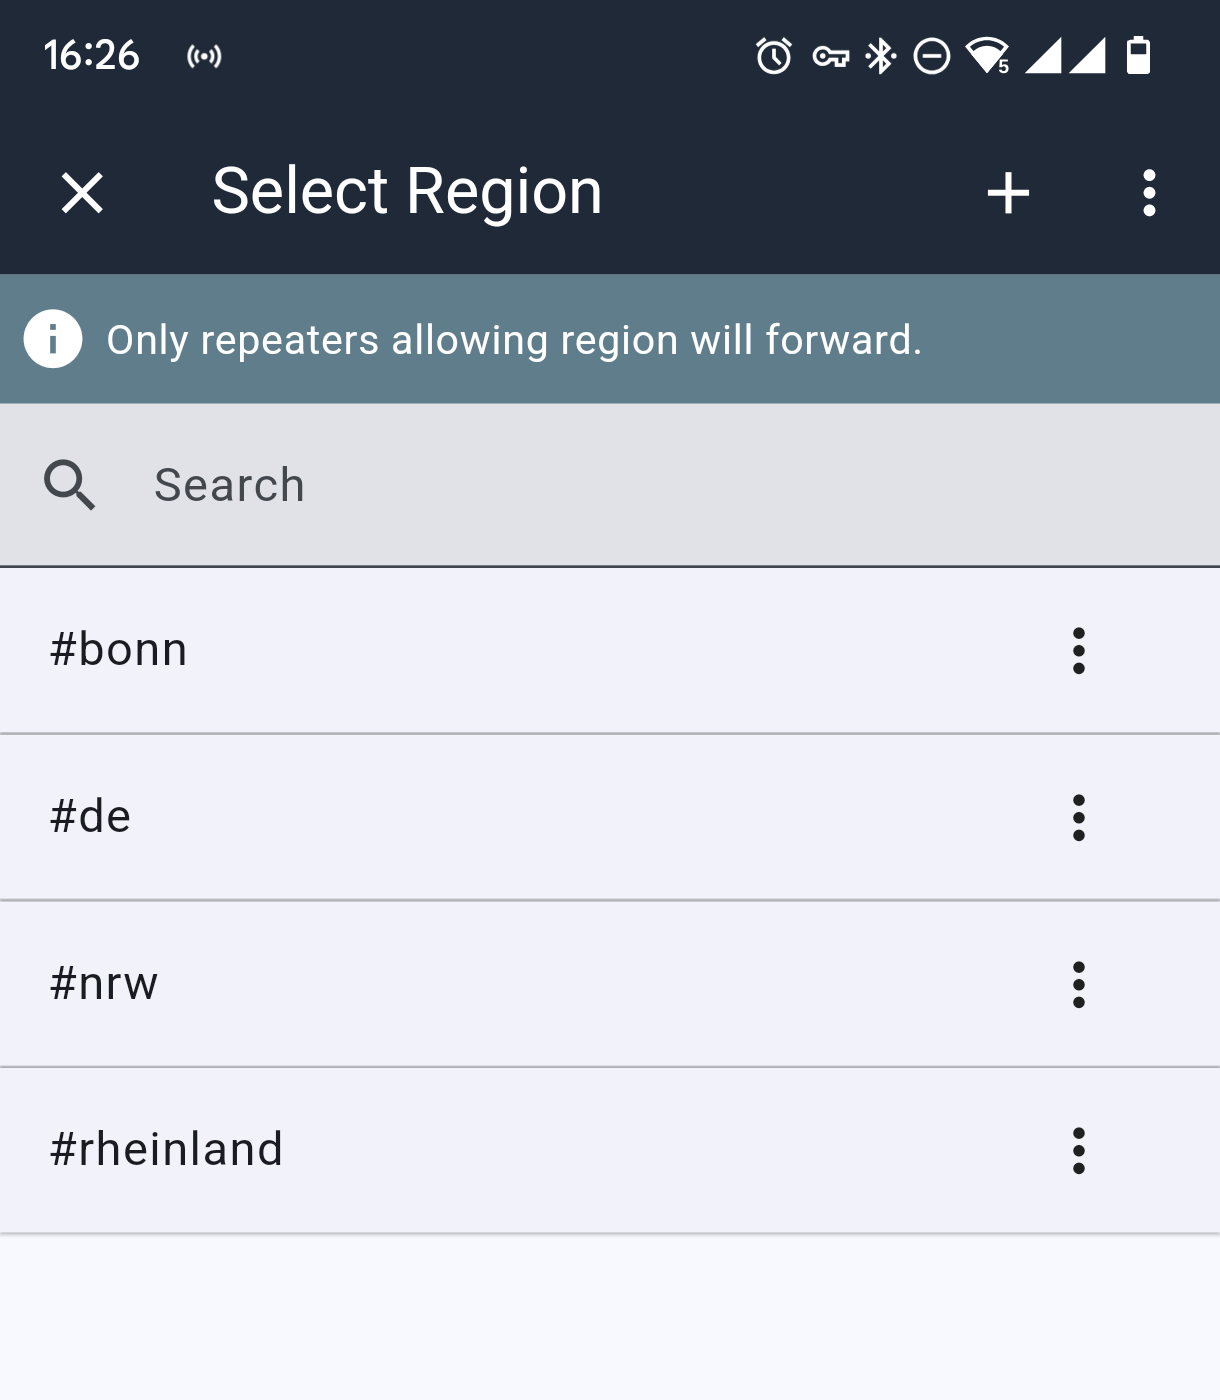
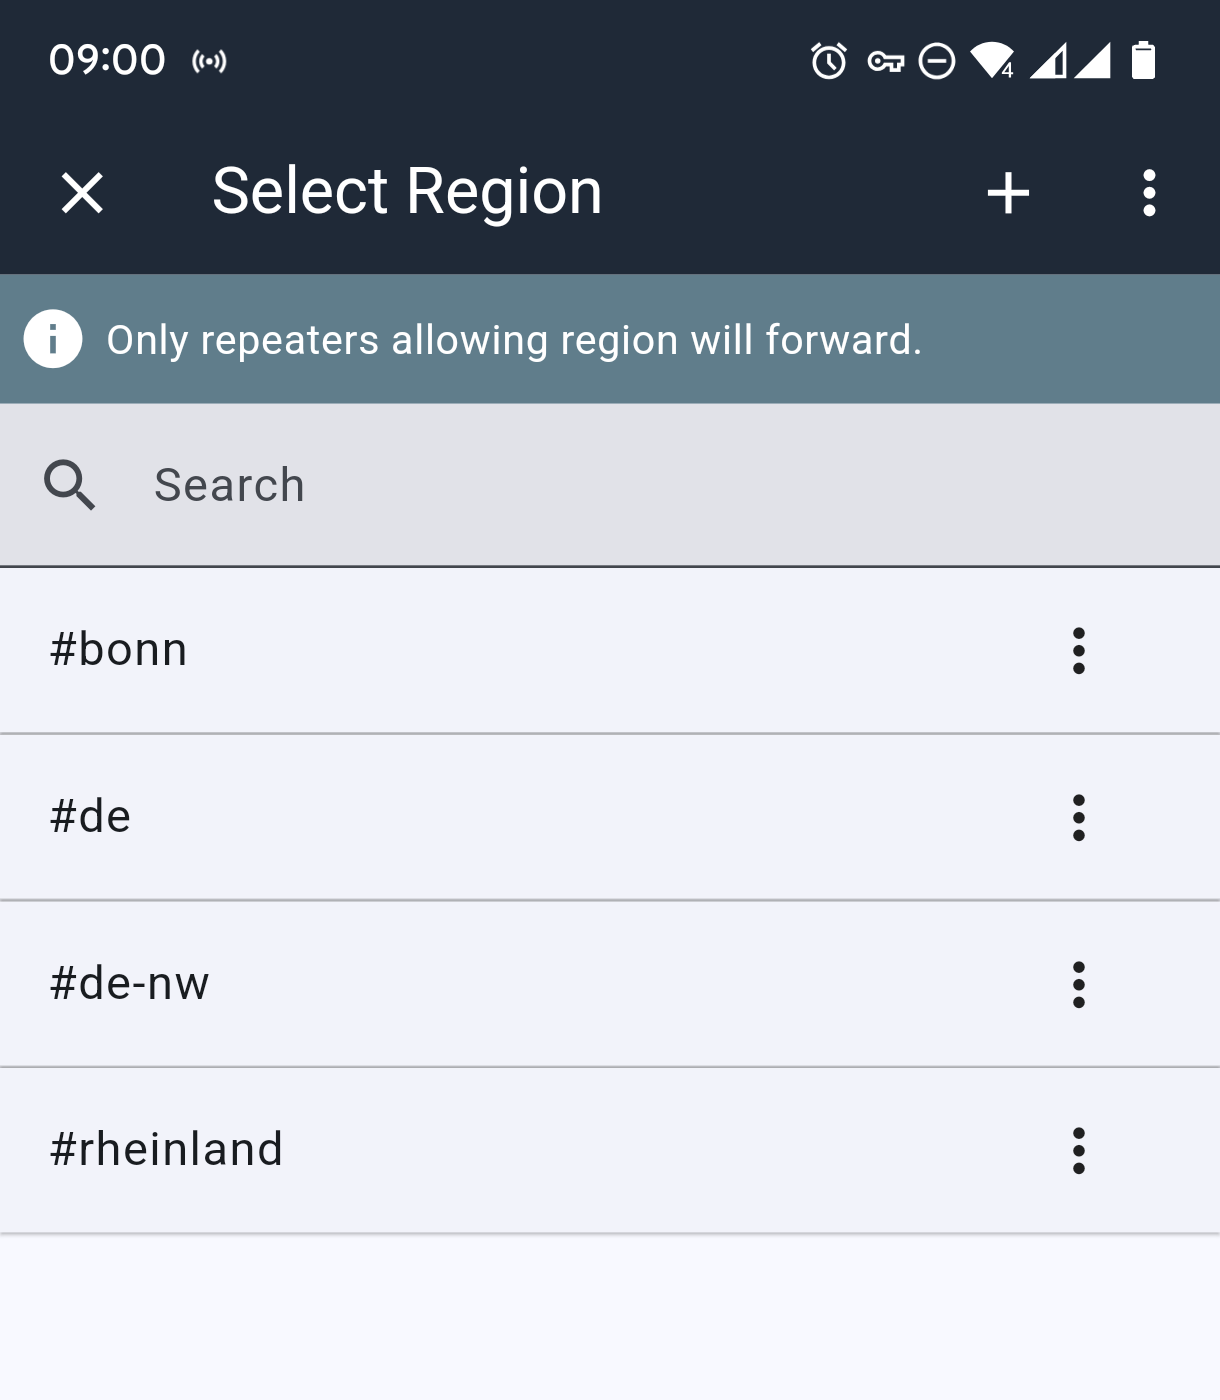
Drop #nrw

Changed region(s): [[0.623, 0.0307, 0.9656, 0.0614], [0.0311, 0.0307, 0.1869, 0.0614], [0.0623, 0.6757, 0.1557, 0.7371]]

diff --git a/docs/meshcore/regionen.md b/docs/meshcore/regionen.md
@@ -57,7 +57,7 @@ In der Regionen-Ansicht kannst du über das **"+"** oben rechts neue Regionen zu
 
 </div>
 
-*Beispiel: Die Regionen-Liste mit #bonn, #de, #nrw und #rheinland*
+*Beispiel: Die Regionen-Liste mit #bonn, #de, #de-nw und #rheinland*
 
 ### Scope einem Kanal zuweisen
 
